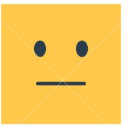
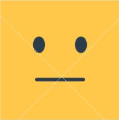
Refined the images and moved them to the public folder. Moved try2 directory into the views directory.

diff --git a/node_js_server/views/try2/tryToDoTraits.html b/node_js_server/views/try2/tryToDoTraits.html
@@ -70,29 +70,25 @@
 		var blockNames=[' Low',' Below Average',' Average',' Above Average',' High'];
 		var traits={};
 		traitNames.forEach(createTraitEntry);
-		var currentBlock="";
+		var currentBlock=""
+		var traitName="";
+		var blockNumber="";
 		
 		function chosenBlock(blockID)
 		{
 			if(currentBlock!="")
 			{
-				document.getElementById(currentBlock).style.borderColor="#000000";
-				document.getElementById(currentBlock).style.borderStyle="solid";
-				document.getElementById(currentBlock).style.borderWidth="1px";
+				unMarkBlock(currentBlock);
 			}
 			currentBlock=blockID;
-			document.getElementById(currentBlock).style.borderStyle="double";
-			document.getElementById(currentBlock).style.borderColor="#f48847";
-			document.getElementById(currentBlock).style.borderWidth="1px";
-			traitName=currentBlock.slice(0,-2);
-			blockNumber=currentBlock.slice(-1);
-			document.getElementById(traitName+"CurrentBlockMessage").innerHTML="How much do you like candidates with "+traitName + blockNames[blockNumber] +" ?";
+			markBlock(currentBlock);
+			setBlockData(currentBlock);
+			document.getElementById(traitName+"CurrentBlockMessage").innerHTML="How much do you like candidates with "+traitName + blockNames[blockNumber-1] +" ?";
 		}
 		
 		function chosenIcon(iconNumber)
 		{
-			traitName=currentBlock.slice(0,-2);
-			blockNumber=currentBlock.slice(-1);
+			setBlockData(currentBlock);
 			traits[traitName][blockNumber-1]=iconNumber;
 			document.getElementById(currentBlock).style.backgroundColor=myColors[iconNumber];
 		}
@@ -102,6 +98,27 @@
 			var myArray=[,,,,,];
 			traits[name]=myArray;
 		}
+		
+		function markBlock(blockID)
+		{
+			document.getElementById(blockID).style.borderStyle="double";
+			document.getElementById(blockID).style.borderColor="#f48847";
+			document.getElementById(blockID).style.borderWidth="1px";
+		}
+
+		function unMarkBlock(blockID)
+		{
+			document.getElementById(blockID).style.borderColor="#000000";
+			document.getElementById(blockID).style.borderStyle="solid";
+			document.getElementById(blockID).style.borderWidth="1px";
+		}
+		
+		function setBlockData(blockID)
+		{
+			traitName=blockID.slice(0,-2);
+			blockNumber=blockID.slice(-1);
+		}
+		
 	</script>
 	</body>
 </html>

diff --git a/node_js_server/app.js b/node_js_server/app.js
@@ -24,13 +24,13 @@ app.get('/', function(req, res) {
 
 //import the page thus user request
 app.get('/addData', async function(req, res){
-	var client =db.openSession(pg);
+	//var client =db.openSession(pg);
 	var myData=[]
-	myData=myData.concat(await db.job_name(client));
+	//myData=myData.concat(await db.job_name(client));
 	//console.log("Jobs:",myData);
-	res.render('data1.html', {products: myData});
+	res.render('try2/tryToDoTraits.html', {products: myData});
 	console.log('GET request with params made');
-	db.closeSession(client);
+	//db.closeSession(client);
 });
 	
 
